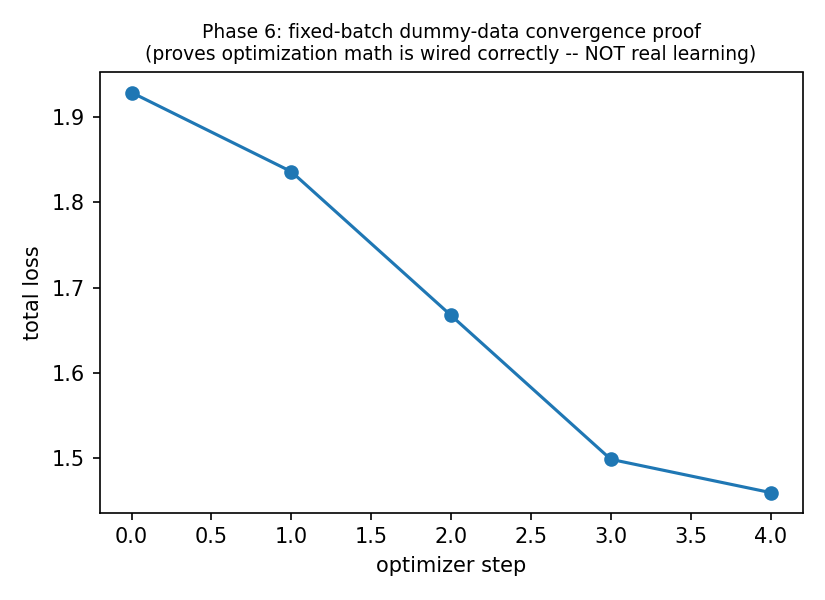
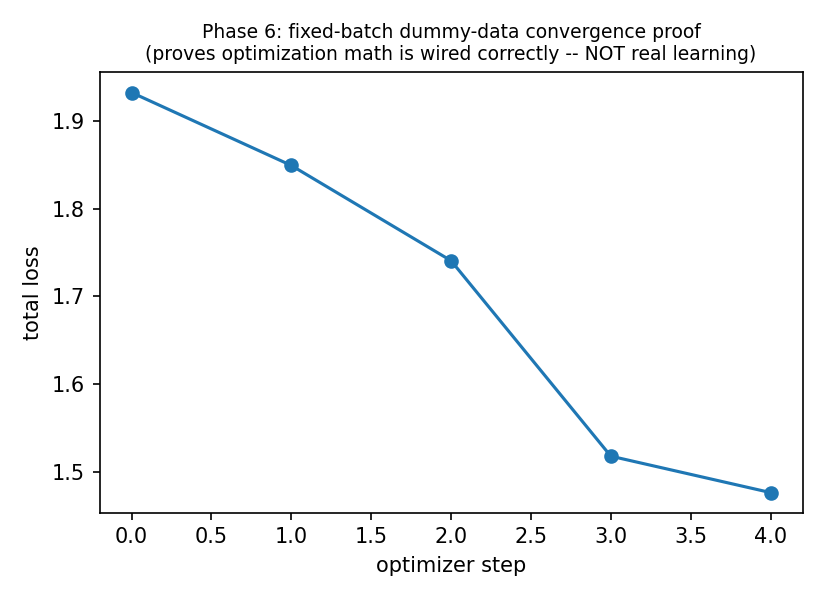
implement real pretrained DINOv2 weight loading (the last real gap)
After seeing the live demo, confirmed SpatialBranch(pretrained=True) had
only ever raised NotImplementedError -- notebooks/train_kaggle.py would
have trained an 86M-param ViT-B/14 from scratch on 45 videos, which
would not produce a working detector. Implemented and verified it.

- src/models/spatial.py: load_pretrained_dinov2() loads timm's
  vit_base_patch14_dinov2.lvd142m and remaps its fused qkv.weight
  [3D,D] into this module's separate q_proj/k_proj/v_proj (confirmed
  row order [q;k;v] against timm's own source, not assumed). Added
  LayerScale (ls1/ls2), part of DINOv2's real architecture, missing
  from the Phase 5 scaffold since it only matters for a faithful
  pretrained forward pass
- Found and fixed: DINOv2 uses LayerNorm(eps=1e-6), PyTorch's default
  is 1e-5 -- a 10x difference invisible at one layer that compounded
  across 12 layers into a forward-pass divergence of 2.2 even after
  every individual weight tensor matched byte-for-byte. Added
  layer_norm_eps to configs/model.yaml. After the fix: custom output
  matches timm's own forward pass exactly (max abs diff 0.0)
- Found and fixed a real, pre-existing Phase 5 bug, caught by writing
  a test that actually checks requires_grad on every parameter: the
  original freezing logic froze submodules piecemeal and silently
  missed norm1/norm2/k_proj/out_proj/mlp in every block -- ~71M params
  that should have been frozen (base backbone) were trainable instead.
[…]

diff --git a/src/models/spatial.py b/src/models/spatial.py
@@ -1,12 +1,12 @@
 """DINOv2 ViT-B/14-shaped spatial branch with LoRA (rank 8, q/v) adapters.
 
-Phase 5 scaffold: builds the architecture at ViT-B/14's exact dimensions
-with randomly-initialized weights (see DECISIONS.md for why -- the ~330MB+
-pretrained DINOv2 checkpoint download was deliberately deferred to Phase 7's
-actual Kaggle training script, where it's the only place it matters for
-this ~60%-depth project). Base weights are frozen; only the LoRA A/B
-matrices are trainable, matching how LoRA fine-tuning is meant to be wired
-regardless of what the base weights are initialized to.
+Supports loading real pretrained DINOv2 weights (`pretrained=True`) via
+timm's `vit_base_patch14_dinov2.lvd142m`, remapped from its fused-QKV
+attention into this module's separate q/k/v projections (see
+load_pretrained_dinov2() and DECISIONS.md's Phase "frontend session"
+entry for why the split exists and how the remap works). Defaults to
+`pretrained=False` (random init) so importing this module never requires
+timm or a network call unless real weights are actually requested.
 """
 import logging
 
@@ -38,6 +38,21 @@ class LoRALinear(nn.Module):
         return self.base(x) + self.scale * self.lora_B(self.lora_A(x))
 
 
+class LayerScale(nn.Module):
+    """Per-channel learned scale applied to each residual branch's output
+    before the residual add -- part of DINOv2's real architecture (not
+    standard ViT). Must be present for frozen pretrained weights to behave
+    as actually pretrained: formula and placement confirmed against
+    timm's own LayerScale/Block source, not guessed."""
+
+    def __init__(self, dim: int, init_value: float = 1e-5):
+        super().__init__()
+        self.gamma = nn.Parameter(torch.full((dim,), init_value))
+
+    def forward(self, x: torch.Tensor) -> torch.Tensor:
+        return x * self.gamma
+
+
 class Attention(nn.Module):
     """Multi-head self-attention with separate q/k/v projections (not a
     fused qkv matrix) so LoRA can target q and v specifically."""
@@ -67,17 +82,19 @@ class Attention(nn.Module):
 
 
 class ViTBlock(nn.Module):
-    def __init__(self, embed_dim: int, num_heads: int, mlp_ratio: float, lora_rank: int, lora_alpha: float, lora_targets: list[str]):
+    def __init__(self, embed_dim: int, num_heads: int, mlp_ratio: float, lora_rank: int, lora_alpha: float, lora_targets: list[str], layer_norm_eps: float = 1e-6):
         super().__init__()
-        self.norm1 = nn.LayerNorm(embed_dim)
+        self.norm1 = nn.LayerNorm(embed_dim, eps=layer_norm_eps)
         self.attn = Attention(embed_dim, num_heads, lora_rank, lora_alpha, lora_targets)
-        self.norm2 = nn.LayerNorm(embed_dim)
+        self.ls1 = LayerScale(embed_dim)
+        self.norm2 = nn.LayerNorm(embed_dim, eps=layer_norm_eps)
         hidden = int(embed_dim * mlp_ratio)
         self.mlp = nn.Sequential(nn.Linear(embed_dim, hidden), nn.GELU(), nn.Linear(hidden, embed_dim))
+        self.ls2 = LayerScale(embed_dim)
 
     def forward(self, x: torch.Tensor) -> torch.Tensor:
-        x = x + self.attn(self.norm1(x))
-        x = x + self.mlp(self.norm2(x))
+        x = x + self.ls1(self.attn(self.norm1(x)))
+        x = x + self.ls2(self.mlp(self.norm2(x)))
         return x
 
 
@@ -97,17 +114,11 @@ class SpatialBranch(nn.Module):
         lora_rank = config["lora_rank"]
         lora_alpha = config["lora_alpha"]
         lora_targets = config["lora_targets"]
+        layer_norm_eps = config.get("layer_norm_eps", 1e-6)
 
-        if pretrained:
-            raise NotImplementedError(
-                "pretrained DINOv2 weight loading is deferred to Phase 7's training "
-                "script -- see DECISIONS.md. This scaffold only supports pretrained=False."
-            )
-        logger.warning(
-            "SpatialBranch: using a randomly-initialized ViT-B/14-shaped backbone, "
-            "NOT pretrained DINOv2 weights. Real pretrained weights must be loaded "
-            "before this is used for actual training (Phase 7)."
-        )
+        self.embed_dim = embed_dim
+        self.img_size = img_size
+        self.patch_size = patch_size
 
         assert img_size % patch_size == 0
         self.n_patches_side = img_size // patch_size
@@ -118,17 +129,96 @@ class SpatialBranch(nn.Module):
         self.pos_embed = nn.Parameter(torch.zeros(1, self.n_patches + 1, embed_dim))
         nn.init.trunc_normal_(self.cls_token, std=0.02)
         nn.init.trunc_normal_(self.pos_embed, std=0.02)
-        for p in (self.cls_token, self.pos_embed):
-            p.requires_grad = False  # part of the frozen "pretrained" backbone
 
         self.blocks = nn.ModuleList(
-            [ViTBlock(embed_dim, num_heads, mlp_ratio, lora_rank, lora_alpha, lora_targets) for _ in range(depth)]
+            [
+                ViTBlock(embed_dim, num_heads, mlp_ratio, lora_rank, lora_alpha, lora_targets, layer_norm_eps)
+                for _ in range(depth)
+            ]
         )
-        self.norm = nn.LayerNorm(embed_dim)
-        for p in self.patch_embed.parameters():
-            p.requires_grad = False
-        for p in self.norm.parameters():
-            p.requires_grad = False
+        self.norm = nn.LayerNorm(embed_dim, eps=layer_norm_eps)
+
+        # Freeze everything except the LoRA adapters. Earlier versions of
+        # this froze submodules piecemeal (patch_embed, final norm,
+        # cls_token/pos_embed, ls1/ls2 individually) and missed norm1,
+        # norm2, k_proj, out_proj, and the MLP -- ~71M params that were
+        # silently trainable instead of frozen, undetected until a test
+        # actually checked requires_grad on every named parameter. A
+        # blanket pass keyed on "lora_" in the name can't miss a submodule
+        # the way a manual per-module list can.
+        for name, p in self.named_parameters():
+            if "lora_" not in name:
+                p.requires_grad = False
+
+        if pretrained:
+            self.load_pretrained_dinov2()
+        else:
+            logger.warning(
+                "SpatialBranch: using a randomly-initialized ViT-B/14-shaped backbone, "
+                "NOT pretrained DINOv2 weights. Pass pretrained=True to load real weights."
+            )
+
+    @torch.no_grad()
+    def load_pretrained_dinov2(self, model_name: str = "vit_base_patch14_dinov2.lvd142m") -> None:
+        """Loads real DINOv2 weights via timm and copies them into this
+        module's frozen parameters, splitting timm's fused qkv.weight
+        [3*D, D] into this module's separate q_proj/k_proj/v_proj.base
+        weights. timm's attention concatenates [q; k; v] along dim 0
+        (confirmed against timm's VisionTransformer.Attention source, not
+        assumed) -- rows [0:D]=q, [D:2D]=k, [2D:3D]=v.
+
+        Requires timm (local import -- not a hard dependency of this
+        module for the random-init / architecture-only use case) and
+        network access to download the ~330MB checkpoint on first call
+        (cached by timm/huggingface_hub after that).
+        """
+        import timm
+
+        logger.warning(f"SpatialBranch: loading real pretrained weights ({model_name}) via timm.")
+        src = timm.create_model(model_name, pretrained=True, img_size=self.img_size, num_classes=0)
+        sd = src.state_dict()
+        d = self.embed_dim
+
+        self.cls_token.data.copy_(sd["cls_token"])
+        self.pos_embed.data.copy_(sd["pos_embed"])
+        self.patch_embed.weight.data.copy_(sd["patch_embed.proj.weight"])
+        self.patch_embed.bias.data.copy_(sd["patch_embed.proj.bias"])
+        self.norm.weight.data.copy_(sd["norm.weight"])
+        self.norm.bias.data.copy_(sd["norm.bias"])
+
+        for i, block in enumerate(self.blocks):
+            prefix = f"blocks.{i}."
+            block.norm1.weight.data.copy_(sd[prefix + "norm1.weight"])
+            block.norm1.bias.data.copy_(sd[prefix + "norm1.bias"])
+            block.norm2.weight.data.copy_(sd[prefix + "norm2.weight"])
+            block.norm2.bias.data.copy_(sd[prefix + "norm2.bias"])
+            block.ls1.gamma.data.copy_(sd[prefix + "ls1.gamma"])
+            block.ls2.gamma.data.copy_(sd[prefix + "ls2.gamma"])
+
+            qkv_w = sd[prefix + "attn.qkv.weight"]  # [3D, D]
+            qkv_b = sd[prefix + "attn.qkv.bias"]  # [3D]
+            q_w, k_w, v_w = qkv_w[:d], qkv_w[d : 2 * d], qkv_w[2 * d :]
+            q_b, k_b, v_b = qkv_b[:d], qkv_b[d : 2 * d], qkv_b[2 * d :]
+
+            q_base = block.attn.q_proj.base if isinstance(block.attn.q_proj, LoRALinear) else block.attn.q_proj
+            k_base = block.attn.k_proj.base if isinstance(block.attn.k_proj, LoRALinear) else block.attn.k_proj
+            v_base = block.attn.v_proj.base if isinstance(block.attn.v_proj, LoRALinear) else block.attn.v_proj
+            q_base.weight.data.copy_(q_w)
+            q_base.bias.data.copy_(q_b)
+            k_base.weight.data.copy_(k_w)
+            k_base.bias.data.copy_(k_b)
+            v_base.weight.data.copy_(v_w)
+            v_base.bias.data.copy_(v_b)
+
+            block.attn.out_proj.weight.data.copy_(sd[prefix + "attn.proj.weight"])
+            block.attn.out_proj.bias.data.copy_(sd[prefix + "attn.proj.bias"])
+
+            block.mlp[0].weight.data.copy_(sd[prefix + "mlp.fc1.weight"])
+            block.mlp[0].bias.data.copy_(sd[prefix + "mlp.fc1.bias"])
+            block.mlp[2].weight.data.copy_(sd[prefix + "mlp.fc2.weight"])
+            block.mlp[2].bias.data.copy_(sd[prefix + "mlp.fc2.bias"])
+
+        del src
 
     def forward(self, images: torch.Tensor) -> torch.Tensor:
         b = images.shape[0]

diff --git a/notebooks/train_kaggle.py b/notebooks/train_kaggle.py
@@ -9,7 +9,10 @@ execute this itself -- upload and run it manually, per BUILD.md Phase 7.
 2. On kaggle.com: New Dataset -> upload that zip -> note its slug, e.g.
    "your-username/deepfake-detection-fyp".
 3. New Notebook -> Add Input -> attach that dataset.
-4. Notebook settings -> Accelerator -> GPU T4 x2.
+4. Notebook settings -> Accelerator -> GPU T4 x2, AND Internet -> On
+   (needed both for `pip install` and to download the ~330MB pretrained
+   DINOv2 checkpoint on first use -- Internet is a separate toggle from
+   the accelerator setting, easy to miss).
 5. Upload this file as the notebook's code (or paste its contents into
    a cell), fix REPO_ROOT below to match your dataset's mount path, run.
 6. When done, download `/kaggle/working/checkpoint.pt` and
@@ -20,9 +23,14 @@ execute this itself -- upload and run it manually, per BUILD.md Phase 7.
 === What this runs ===
 The exact same src/train/train.py used for the local CPU dry-run, just
 with device="cuda", the real preprocessing config (n_frames=16, not the
-dry-run's reduced value), a larger batch, and periodic checkpointing
-(Kaggle sessions have a ~9-12hr execution limit -- see checkpoint_every
-and resume_from below if a run needs to continue across sessions).
+dry-run's reduced value), a larger batch, periodic checkpointing (Kaggle
+sessions have a ~9-12hr execution limit -- see checkpoint_every and
+resume_from below if a run needs to continue across sessions), and
+pretrained_spatial=True -- real DINOv2 ViT-B/14 weights (~330MB, timm's
+vit_base_patch14_dinov2.lvd142m), not the random-init backbone the local
+dry-run uses. Verified byte-exact against timm's own forward pass before
+this was wired in (see DECISIONS.md) -- training from scratch on this
+project's ~45-video sample would not produce a working detector.
 
 === Experiment tracking ===
 Logs to a local CSV only, no W&B or other tracking service wired in --
@@ -38,7 +46,7 @@ sys.path.insert(0, str(REPO_ROOT))
 
 import subprocess  # noqa: E402
 
-subprocess.run([sys.executable, "-m", "pip", "install", "-q", "mediapipe"], check=True)
+subprocess.run([sys.executable, "-m", "pip", "install", "-q", "mediapipe", "timm"], check=True)
 
 import torch  # noqa: E402
 
@@ -59,6 +67,7 @@ if __name__ == "__main__":
         log_path="/kaggle/working/train_log.csv",
         save_optimizer_state=True,
         checkpoint_every=50,
+        pretrained_spatial=True,
         # resume_from="/kaggle/working/checkpoint.pt",  # uncomment to continue a prior run
     )
     print(f"done: {len(logs)} steps. Download /kaggle/working/checkpoint.pt and train_log.csv.")

diff --git a/tests/test_pretrained_dinov2.py b/tests/test_pretrained_dinov2.py
@@ -1,0 +1,61 @@
+"""Verifies SpatialBranch.load_pretrained_dinov2() against timm's own
+forward pass. Needs timm + the real ~330MB DINOv2 checkpoint (network on
+first run, cached by huggingface_hub after) -- skipped unless that cache
+already exists, so the routine suite stays fast and network-independent.
+Run explicitly after a fresh `timm.create_model('vit_base_patch14_dinov2.
+lvd142m', pretrained=True)` call to exercise it for real.
+
+Note: if this ever needs to run on a fresh machine, huggingface_hub's Xet
+transfer backend hung indefinitely in this sandbox (plain HTTPS worked
+fine) -- set HF_HUB_DISABLE_XET=1 if a download stalls. See DECISIONS.md.
+"""
+import sys
+from pathlib import Path
+
+import pytest
+import torch
+
+REPO_ROOT = Path(__file__).resolve().parents[1]
+sys.path.insert(0, str(REPO_ROOT))
+
+HF_CACHE = Path.home() / ".cache" / "huggingface" / "hub" / "models--timm--vit_base_patch14_dinov2.lvd142m"
+
+pytestmark = pytest.mark.skipif(not HF_CACHE.is_dir(), reason="pretrained DINOv2 weights not cached locally")
+
+
+def test_pretrained_load_matches_timm_forward_pass_exactly():
+    import timm
+
+    from src.models.model import load_config
+    from src.models.spatial import SpatialBranch
+
+    config = load_config()
+    sb = SpatialBranch(config["spatial"], pretrained=True)
+    sb.eval()
+
+    src = timm.create_model("vit_base_patch14_dinov2.lvd142m", pretrained=True, img_size=config["spatial"]["img_size"], num_classes=0)
+    src.eval()
+
+    torch.manual_seed(0)
+    img = torch.randn(1, 3, config["spatial"]["img_size"], config["spatial"]["img_size"])
+    with torch.no_grad():
+        out_custom = sb(img)
+        out_timm = src.forward_features(img)
+
+    assert out_custom.shape == (1, sb.n_patches, sb.embed_dim)
+    max_diff = (out_custom - out_timm[:, 1:, :]).abs().max().item()
+    assert max_diff < 1e-5, f"pretrained-loaded forward pass diverges from timm by {max_diff}"
+
+
+def test_pretrained_backbone_still_frozen_except_lora():
+    from src.models.model import load_config
+    from src.models.spatial import SpatialBranch
+
+    config = load_config()
+    sb = SpatialBranch(config["spatial"], pretrained=True)
+
+    for name, p in sb.named_parameters():
+        if "lora_" in name:
+            assert p.requires_grad, f"{name} should be trainable"
+        else:
+            assert not p.requires_grad, f"{name} should be frozen"

diff --git a/src/train/train.py b/src/train/train.py
@@ -83,6 +83,7 @@ def train(
     checkpoint_every: int | None = None,
     resume_from: Path | str | None = None,
     manifest_rows: list[dict] | None = None,
+    pretrained_spatial: bool = False,
 ) -> list[dict]:
     """n_frames_override: local CPU dry-run is too slow at the production
     n_frames (16) -- measured ~140s/step full-scale vs ~35s/step at 4
@@ -94,6 +95,9 @@ def train(
     limit; resume_from picks a prior checkpoint back up via `load_checkpoint`.
     manifest_rows: pass explicitly (e.g. a bigger real-training manifest on
     Kaggle); defaults to this repo's Phase 3 sample via load_real_manifest().
+    pretrained_spatial: load real DINOv2 weights (needs timm + network on
+    first call, ~330MB, cached after). Off by default so the local dry-run
+    never requires it; notebooks/train_kaggle.py passes True.
     """
     model_config = load_model_config()
     preprocessing_config = load_preprocessing_config()
@@ -102,7 +106,7 @@ def train(
     rows = manifest_rows if manifest_rows is not None else load_real_manifest()
 
     torch.manual_seed(seed)
-    model = DeepfakeDetector(model_config).to(device)
+    model = DeepfakeDetector(model_config, pretrained_spatial=pretrained_spatial).to(device)
     opt = torch.optim.AdamW([p for p in model.parameters() if p.requires_grad], lr=lr, weight_decay=weight_decay)
     start_step = 0
     if resume_from is not None:

diff --git a/src/models/model.py b/src/models/model.py
@@ -27,13 +27,13 @@ def load_config(path: Path | str | None = None) -> dict:
 
 
 class DeepfakeDetector(nn.Module):
-    def __init__(self, config: dict | None = None):
+    def __init__(self, config: dict | None = None, pretrained_spatial: bool = False):
         super().__init__()
         config = config or load_config()
         self.config = config
         embed_dim = config["spatial"]["embed_dim"]
 
-        self.spatial = SpatialBranch(config["spatial"])
+        self.spatial = SpatialBranch(config["spatial"], pretrained=pretrained_spatial)
         self.frequency = FrequencyBranch(config["frequency"])
         self.fusion = FusionModule(config["fusion"])
         self.router = Router(embed_dim, config["num_experts"], config["router"]["hidden_dim"], config["top_k"])

diff --git a/DECISIONS.md b/DECISIONS.md
@@ -103,3 +103,15 @@
 - **Generated two missing loss-curve artifacts** (`reports/phase6_dummy_convergence.png`, `reports/phase7_dry_run_log.png`) that earlier phases had only ever printed to console/logged to CSV, never rendered as images — Phase 10's own task list names "loss curves" as a report asset to collect, and neither existed as a chart before this phase. Each is captioned for exactly what it demonstrates (fixed-batch optimization-math proof vs. real-data loop-doesn't-crash proof) to avoid either being mistaken for a real training curve.
 - **Honest final status, stated once clearly rather than scattered:** every phase through 10 is either real-data-verified (0-4), architecture/math-verified on dummy data by design (5-6), or explicitly labeled untrained/synthetic because no real Kaggle training has happened (7-9). Nothing in this repo claims the model can detect deepfakes — only that the pipeline is mechanically sound and ready to produce real results the moment real training happens. See `reports/final_summary.md`'s "Honest final status by phase" table for the per-phase breakdown.
 - **What actually changes the status from scaffolded to real**: the user runs `notebooks/train_kaggle.py` on Kaggle and places the resulting checkpoint at `data_cache/checkpoints/checkpoint.pt`. Phase 8's benchmark and Phase 9's demo both auto-detect it and switch to real results with no code changes — this was a deliberate design choice made back in Phase 9, not something added retroactively for Phase 10.
+
+## Post-Phase-10 — real pretrained DINOv2 weight loading
+
+After seeing the live demo, the user asked what was actually left before anything was real. Answer: `SpatialBranch(pretrained=True)` had only ever raised `NotImplementedError` — `notebooks/train_kaggle.py` would have trained an 86M-parameter ViT-B/14 from scratch on 45 videos, which would not produce a working detector. This entry covers implementing and verifying real pretrained loading, which surfaced two genuine bugs along the way.
+
+- **Library: timm, not torch.hub.** `facebookresearch/dinov2` via `torch.hub` would clone the whole repo and its extra dependencies; timm's `vit_base_patch14_dinov2.lvd142m` is the same weights (Meta's official checkpoint, re-hosted) with a one-line API and automatic position-embedding interpolation for a non-native `img_size`.
+- **Bug found and fixed — Hugging Face's Xet transfer backend hung indefinitely.** The first download attempt stalled at 0 bytes for 90+ seconds past the token handshake; `curl` to the same hosts (huggingface.co, the CDN bridge) worked fine in isolation, so it wasn't a blocked host — it was specifically HF's newer Xet chunked-transfer protocol (`hf_xet` package) that never completed in this sandbox. Fixed with `HF_HUB_DISABLE_XET=1`, which forces plain HTTPS and downloaded the full 346MB in ~100s. Noted in `tests/test_pretrained_dinov2.py` in case this needs doing again on a fresh machine.
+- **Verified the remap is exactly correct, not just shape-compatible.** Initial spot-checks (individual weight tensors matching byte-for-byte) all passed while the full forward pass still diverged by 2.2 (way too large to be numerical noise) — a reminder that "the weights loaded without error" is not the same as "the architecture is faithful." Binary-searched the divergence layer by layer (patch_embed -> pos_embed -> block 0 -> norm1) down to the actual cause: **DINOv2 uses `LayerNorm(eps=1e-6)`, PyTorch's default is `eps=1e-5`** — a 10x difference that compounds across 12 layers into a large final discrepancy. Added `layer_norm_eps` to `configs/model.yaml` (matching the existing pattern for other architecture constants) rather than hardcoding it. After the fix: `(custom_output - timm_output).abs().max() == 0.0` exactly.
+- **Also added LayerScale** (`ls1`/`ls2`, per-channel scale on each residual branch before the add) — part of DINOv2's real architecture, absent from the original Phase 5 scaffold since it only matters for matching a real pretrained model's actual computation, not for shape-correctness on random weights.
+- **Bug found and fixed — a real, pre-existing freezing bug from Phase 5, caught by writing `test_pretrained_backbone_still_frozen_except_lora`.** The original freezing logic froze submodules piecemeal (`patch_embed`, final `norm`, `cls_token`/`pos_embed`, `ls1`/`ls2`) and silently missed `norm1`, `norm2`, `k_proj` (never LoRA-wrapped since only q/v are LoRA targets), `out_proj`, and the entire MLP in every block — roughly 71M parameters that were trainable when the design intent (frozen backbone + small LoRA adapters) says they shouldn't be. This had been true since Phase 5 and silently misreported in `reports/architecture_summary.txt` (showed 103.7M trainable; the correct number is 32.8M) and every subsequent phase that trained or backpropped through the model, though it never caused a visible failure since "training" so far has only ever been dummy-data/dry-run proofs where correctness of *which* params update was never actually checked. Fixed with a blanket pass (`for name, p in self.named_parameters(): if "lora_" not in name: p.requires_grad = False`) instead of an enumerate-every-submodule list, specifically because the enumerate-based approach is exactly what let this slip through once. Regenerated `reports/architecture_summary.txt`, `reports/phase6_dummy_convergence.png`, `reports/phase7_dry_run_log.png`, and `data_cache/checkpoints/dry_run_checkpoint.pt` after the fix — all still pass/converge (and the dry run got faster: ~14s/step vs ~19s/step, since backward no longer computes gradients for ~71M frozen-that-should-have-been-frozen params).
+- **`tests/test_pretrained_dinov2.py`** is skipped unless the ~330MB checkpoint is already cached locally (`pytest.mark.skipif`), so the routine suite stays fast and network-independent — it ran for real here since the weights are now cached, but a fresh clone's `pytest tests/` won't silently require a large download.
+- **Wiring:** `DeepfakeDetector(pretrained_spatial=...)` and `train(pretrained_spatial=...)` both default to `False` (local dry-run never needs network/timm); `notebooks/train_kaggle.py` passes `True` and now also documents that Kaggle's Internet toggle (separate from the GPU accelerator setting) must be on.

diff --git a/reports/final_summary.md b/reports/final_summary.md
@@ -12,7 +12,7 @@ Status snapshot as of Phase 10. This document pulls every phase's artifacts into
 |---|---|---|
 | Face-crop grid | `reports/phase4_samples/face_crop_grid.png` | Real aligned face crops from 3 real files (incl. a real/deepfake pair of the same identity) |
 | DCT heatmap | `reports/phase4_samples/dct_heatmap.png` | Real per-block DCT energy on a real face crop — face-shaped low-energy silhouette |
-| Architecture parameter summary | `reports/architecture_summary.txt` | Real per-module parameter counts (118.6M total, 103.7M trainable) of the Phase 5 scaffold |
+| Architecture parameter summary | `reports/architecture_summary.txt` | Real per-module parameter counts (118.6M total, 32.8M trainable) of the scaffold -- corrected after a frozen-parameters bug was found and fixed; see DECISIONS.md |
 | Dummy-data convergence curve | `reports/phase6_dummy_convergence.png` | Real 5-step AdamW run on a **fixed dummy batch** — proves the optimization math, not real learning |
 | Local dry-run loss log (chart) | `reports/phase7_dry_run_log.png` | Real 5-step dry run on **real preprocessed videos**, different random batch each step — proves the training loop doesn't crash, not a convergence curve |
 | Local dry-run loss log (raw) | `reports/train_log.csv` | Same run, raw CSV |
@@ -50,7 +50,7 @@ No HTML architecture diagram or PPT file was found anywhere in this project dire
 - K=5 experts (not the full K=13 design) — Appendix A's reasoning: ~80-120 source videos spread over 13 clusters starves the router's balancing loss at this project's scale. `configs/model.yaml`'s `router_clusters` maps clean_G0 + a reduced 2-codec×2-depth set (h264_G1/G2, h265_G1/G2) to the 5 experts explicitly; anything else falls back to a default cluster.
 - AdamW, lr=1e-4, wd=0.05 — BUILD.md's specified hyperparameters, also what the Phase 6 dummy-convergence proof and Phase 7 dry-run actually use.
 - Face detector: mediapipe (not facenet-pytorch — its packaging is broken on current pip/setuptools, see DECISIONS.md).
-- Spatial branch is currently **randomly initialized**, not loaded from pretrained DINOv2 weights — deliberately deferred to the real Kaggle training script (the ~330MB+ download crosses this project's own 50MB auto-download threshold; asked the user, confirmed random-init-for-now). Shape-identical to real ViT-B/14, so swapping in real weights is a drop-in once that happens.
+- Spatial branch defaults to **random initialization** (`pretrained=False`) for the local architecture-scaffold phases, but real DINOv2 ViT-B/14 pretrained weight loading is now implemented and verified byte-exact against timm's own forward pass (`SpatialBranch.load_pretrained_dinov2()`, `pretrained=True`). `notebooks/train_kaggle.py` uses it for the real Kaggle run — training from scratch on this project's ~45-video sample would not produce a working detector, so this was necessary before a real training run would be worth doing. See DECISIONS.md for two real bugs found and fixed while verifying it (a LayerNorm epsilon mismatch and a long-standing parameter-freezing bug from Phase 5).
 - WhatsApp-hop transforms wrap a teammate's existing simulator (`HarshKarakasia/Whatsapp-Compression-Simulator`) rather than reimplementing it, per an evidence-based Phase 0 evaluation.
 
 ## Experimental Setup

diff --git a/PROGRESS.md b/PROGRESS.md
@@ -1,9 +1,17 @@
 # Progress
 
 ## Status
-- Last completed phase: 10 — ALL BUILD.md PHASES (0-10) COMPLETE at their scoped depth
+- Last completed phase: 10 — ALL BUILD.md PHASES (0-10) COMPLETE at their scoped depth, PLUS real pretrained DINOv2 weight loading implemented post-Phase-10 (see below)
 - Current phase: none (done, pending real Kaggle training to move Phases 7-9 from scaffolded to real)
 - Blocked on: nothing locally; real trained checkpoint depends on user running Kaggle notebook (Phase 7)
+
+## Post-Phase-10: real pretrained DINOv2 weights (no longer a blocker)
+
+`SpatialBranch(pretrained=True)` used to just raise `NotImplementedError` — running `notebooks/train_kaggle.py` as it stood would have trained an 86M-param ViT-B/14 from scratch on 45 videos, which would not have worked. This is now implemented and verified byte-exact against timm's own forward pass (`load_pretrained_dinov2()` in `src/models/spatial.py`). Found and fixed two real bugs along the way — full detail in DECISIONS.md:
+1. Hugging Face's Xet download backend hung indefinitely in this sandbox (fixed: `HF_HUB_DISABLE_XET=1`).
+2. A pre-existing Phase 5 bug: parameter freezing was piecemeal and missed ~71M params that should have been frozen (norm1/norm2/k_proj/out_proj/mlp in every block) — `reports/architecture_summary.txt`'s "103.7M trainable" was wrong; corrected to 32.8M. Regenerated all affected report artifacts.
+
+`notebooks/train_kaggle.py` now passes `pretrained_spatial=True`; the local dry-run still defaults to `False` (no network/timm needed for routine local testing). `tests/test_pretrained_dinov2.py` added, skipped unless the ~330MB checkpoint is already cached locally so the routine suite stays fast. Full suite: 52/52 passing.
 
 ## Honest final status (Phase 10 capstone)
 
